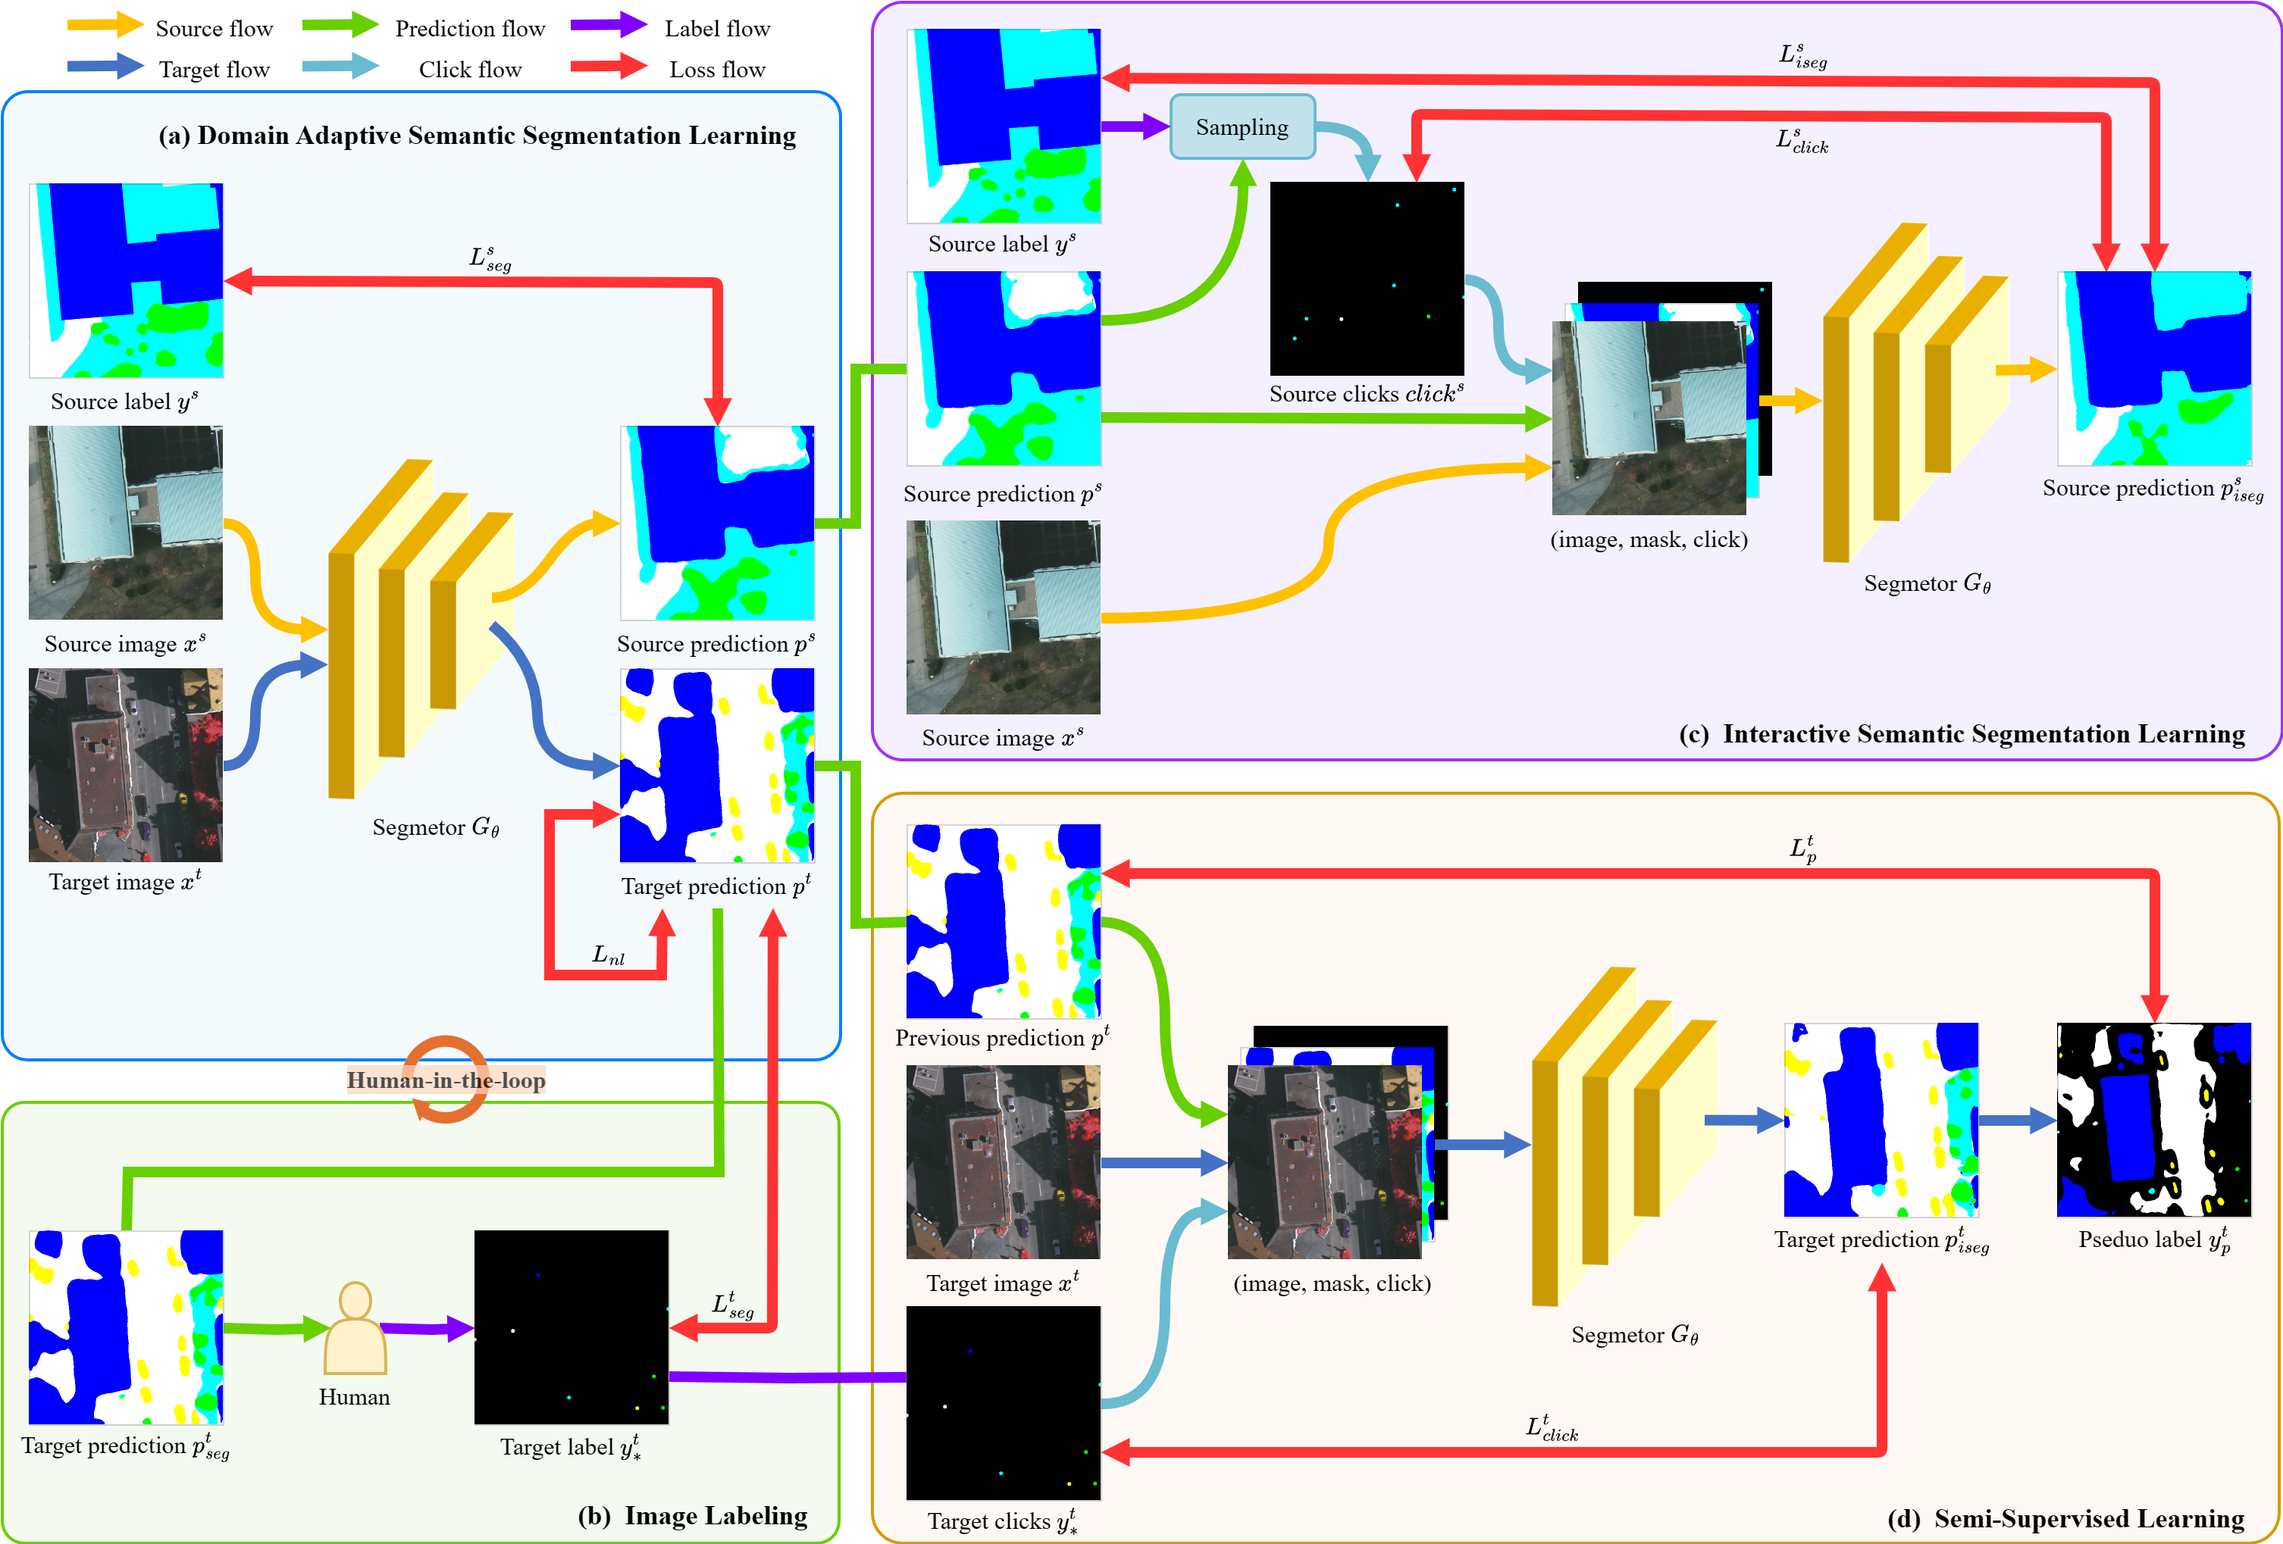
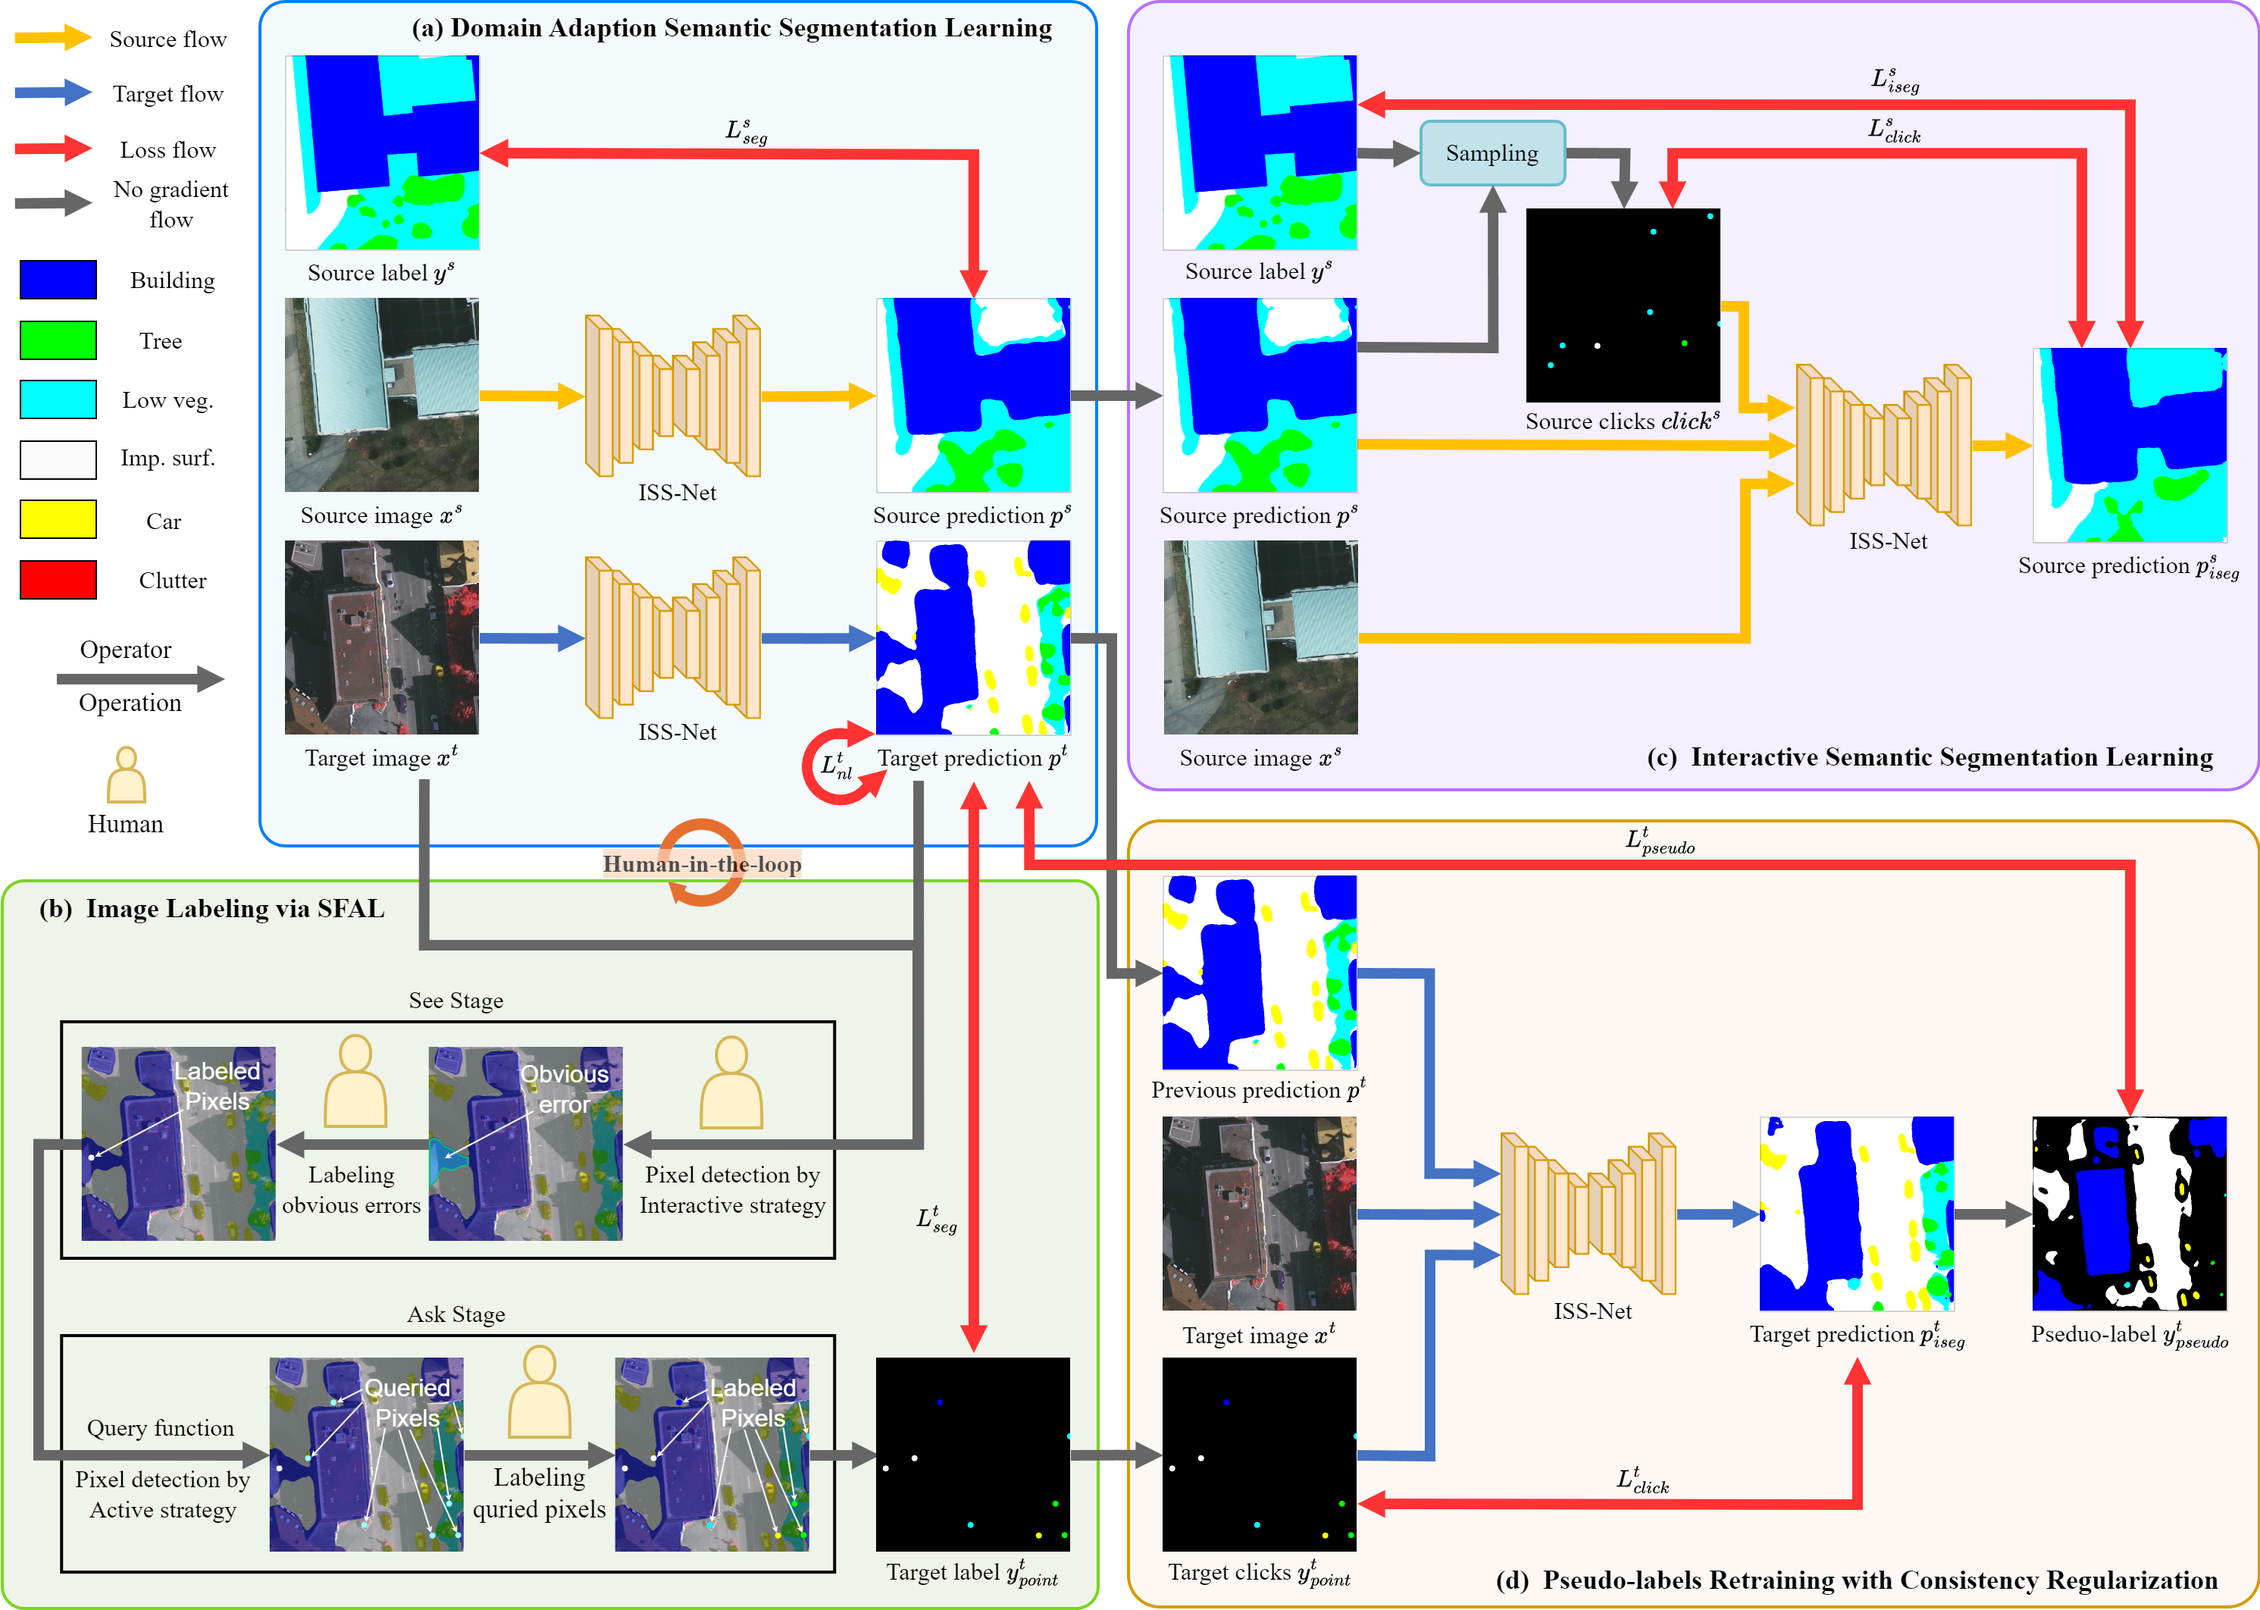
Second commit

diff --git a/test.py b/test.py
@@ -83,7 +83,7 @@ def mkdir_path(dir):
 
 
 def test(cfg):
-    logger = logging.getLogger("AL-RIPU.tester")
+    logger = logging.getLogger("EasySeg.tester")
     logger.info("Start testing")
     device = torch.device(cfg.MODEL.DEVICE)
 
@@ -144,24 +144,15 @@ def test(cfg):
         pred_onehot = pred_onehot.cpu().numpy()
         pred = pred.cpu().numpy().squeeze().argmax(0)
         pred_class.update(np.sum(np.sum(pred_onehot,1),1)[0,:])
-        #precision_class = intersection_meter.val / (np.sum(np.sum(pred_onehot,1),1)[0,:] + 1e-10)
-        #recall_class = intersection_meter.val / (sum(target_meter.val) + 1e-10)
-        
-        #precision_meter.update(precision_class)
-        #recall_meter.update(recall_class)
-        #F1_list.append(2*precision_class*recall_class/(precision_class+recall_class + 1e-10))
 
         if cfg.MODEL.NUM_CLASSES == 16:
             pred = transform_color(pred)
         mask = get_color_pallete(pred, cfg.DATASETS.TEST.split('_')[0])
-
-        #mask_filename = name if len(name.split("/")) < 2 else name.split("/")[1]
         mask_filename = name + '.png'
 
         if mask.mode == 'P':
             mask = mask.convert('RGB')
-        
-        #mkdir_path(os.path.join(output_folder, mask_filename.split('.')[0].split('\\')[0]))
+
         mask.save(os.path.join(output_folder, mask_filename))
 
     iou_class = intersection_meter.sum / (union_meter.sum + 1e-10)
@@ -173,7 +164,6 @@ def test(cfg):
     mIoU = np.mean(iou_class)
     mAcc = np.mean(accuracy_class) # 不同类别的Acc的平均
     allAcc = sum(intersection_meter.sum) / (sum(target_meter.sum) + 1e-10) # OA: .sum是每类的累计，所有类别的平均Acc
-    #print(np.mean(F1_list,0)) # 不能mean，因为有些图片没有某个类别是0，而mean会增大分母
 
 
     logger.info('Val result: mIoU/mAcc/allAcc {:.4f}/{:.4f}/{:.4f}.'.format(mIoU, mAcc, allAcc))
@@ -193,7 +183,7 @@ def main():
                         )
     parser.add_argument("--proctitle",
                         type=str,
-                        default="AL-RIPU",
+                        default="EasySeg",
                         help="allow a process to change its title", )
     parser.add_argument(
         "opts",
@@ -212,7 +202,7 @@ def main():
 
     setproctitle.setproctitle(f'{args.proctitle}')
     save_dir = cfg.OUTPUT_DIR+'/inference/'
-    logger = setup_logger("AL-RIPU", save_dir, 0)
+    logger = setup_logger("EasySeg", save_dir, 0)
     logger.info(cfg)
 
     logger.info("Loaded configuration file {}".format(args.config_file))

diff --git a/train.py b/train.py
@@ -37,7 +37,7 @@ warnings.filterwarnings('ignore')
 
 
 def train(cfg, args):
-    logger = logging.getLogger("AL-RIPU.trainer")
+    logger = logging.getLogger("EasySeg.trainer")
 
     # create network
     device = torch.device(cfg.MODEL.DEVICE)
@@ -581,7 +581,7 @@ def main():
                         type=str)
     parser.add_argument("--proctitle",
                         type=str,
-                        default="AL-RIPU",
+                        default="EasySeg",
                         help="allow a process to change its title", )
     parser.add_argument(
         "opts",

diff --git a/README.md b/README.md
@@ -2,28 +2,28 @@
 
 <div align="center">    
 
-# EASE-ADA: an Error-Aware Semi-Supervised Active Domain Adaptation Method for Remote Sensing Image Semantic Segmentation
+# EasySeg: an Error-Aware domain adaptation framework for remote Sensing imagerY semantic SEGmentation via interactive learning and active learning
 
 
 </div>
 
 
 ## Overview
-We explore a novel active domain adaptation (ADA) method for semantic segmentation in remote sensing imagery. We introduce our EASE-ADA framework, emphasizing the efficient utilization of target domain data. We propose the SFAL labeling strategy to make point-level active domain adaptation error aware while ensuring ease and efficiency in the labeling process. To harness the full potential of labeled target data, we design ISS-Net to generate more accurate and denser pseudo-labels. To fully leverage unlabeled target data, we apply weak-to-strong consistency to mitigate training noise and enhance model robustness. 
+We explore a novel active domain adaptation (ADA) method for semantic segmentation in remote sensing imagery. We introduce our EasySeg framework, emphasizing the efficient utilization of target domain data. We propose the SFAL labeling strategy to make point-level active domain adaptation error aware while ensuring ease and efficiency in the labeling process. To harness the full potential of labeled target data, we design ISS-Net to generate accurate and dense pseudo-labels. To fully leverage unlabeled target data, we apply consistency regularization to mitigate training noise and enhance model robustness.
 
-We show the overview of the proposed EASE-ADA, 
+We show the overview of the proposed EasySeg, 
 
 ![image](resources/Overview.png)
 
 the encoder of the ISS-Net, 
 
-![image](resources/ISS-Net.png)
+<img src="resources/ISS-Net.png" alt="image" style="zoom: 25%;" />
 
-and our Semi-supervised learning strategy.
+and our consistency regularization.
 
-![image](resources/WTS-ADA.png)
+<img src="resources/ConsistencyRegularization.png" alt="image" style="zoom:36%;" />
 
-For more information on RIPU, please check our paper.
+For more information on EasySeg, please check our paper.
 
 ## Usage
 ### Prerequisites
@@ -34,8 +34,8 @@ For more information on RIPU, please check our paper.
 Step-by-step installation
 
 ```bash
-conda create --name EASEADA -y python=3.8
-conda activate EASEADA
+conda create --name EasySeg -y python=3.8
+conda activate EasySeg
 
 # this installs the right pip and dependencies for the fresh python
 conda install -y ipython pip
@@ -77,7 +77,6 @@ The data folder should be structured as follows:
 |   |   |   ├── images/
 |   |   |   ├── labels/
 |   |   ├── drone_label_info.p
-│   └──	
 ```
 
 
@@ -94,8 +93,8 @@ python -m torch.distributed.launch \
 	--master_addr=localhost \
 	--master_port=<port> \
 	train.py \
-	-cfg configs/EASEADA/P2V/deeplabv3plus_r101.yaml \
-	OUTPUT_DIR results/EASEADA_P2V_V3BASED
+	-cfg configs/EasySeg/P2V/deeplabv3plus_r101.yaml \
+	OUTPUT_DIR results/EasySeg_P2V_V3BASED
 
 # training for Potsdam to Vaihingen (Deeplabv2-ResNet101)
 python -m torch.distributed.launch \
@@ -103,8 +102,8 @@ python -m torch.distributed.launch \
 	--master_addr=localhost \
 	--master_port=<port> \
 	train.py \
-	-cfg configs/EASEADA/P2V/deeplabv2_r101.yaml \
-	OUTPUT_DIR results/EASEADA_P2V_V2BASED
+	-cfg configs/EasySeg/P2V/deeplabv2_r101.yaml \
+	OUTPUT_DIR results/EasySeg_P2V_V2BASED
 	
 # training for Potsdam to Semantic Drone (Deeplabv3plus-ResNet101)
 python -m torch.distributed.launch \
@@ -112,8 +111,8 @@ python -m torch.distributed.launch \
 	--master_addr=localhost \
 	--master_port=<port> \
 	train.py \
-	-cfg configs/EASEADA/P2D/deeplabv3plus_r101.yaml \
-	OUTPUT_DIR results/EASEADA_P2D_V3BASED
+	-cfg configs/EasySeg/P2D/deeplabv3plus_r101.yaml \
+	OUTPUT_DIR results/EasySeg_P2D_V3BASED
 
 # training for Potsdam to Vaihingen (Deeplabv2-ResNet101)
 python -m torch.distributed.launch \
@@ -121,14 +120,14 @@ python -m torch.distributed.launch \
 	--master_addr=localhost \
 	--master_port=<port> \
 	train.py \
-	-cfg configs/EASEADA/P2D/deeplabv2_r101.yaml \
-	OUTPUT_DIR results/EASEADA_P2D_V2BASED
+	-cfg configs/EasySeg/P2D/deeplabv2_r101.yaml \
+	OUTPUT_DIR results/EasySeg_P2D_V2BASED
 ```
 
 ### Testing
 To evaluate EASE-ADA e.g. Potsdam to Vaihingen (Deeplabv3plus-ResNet101), use the following command:
 ```bash
-python test.py -cfg configs/EASEADA/deeplabv3plus_r101.yaml resume checkpint/EASEADA_P2V_V3BASED/model_last.pth OUTPUT_DIR checkpint/EASEADA_P2V_V3BASED
+python test.py -cfg configs/EasySeg/deeplabv3plus_r101.yaml resume checkpint/EasySeg_P2V_V3BASED/model_last.pth OUTPUT_DIR checkpint/EasySeg_P2V_V3BASED
 ```
 
 
